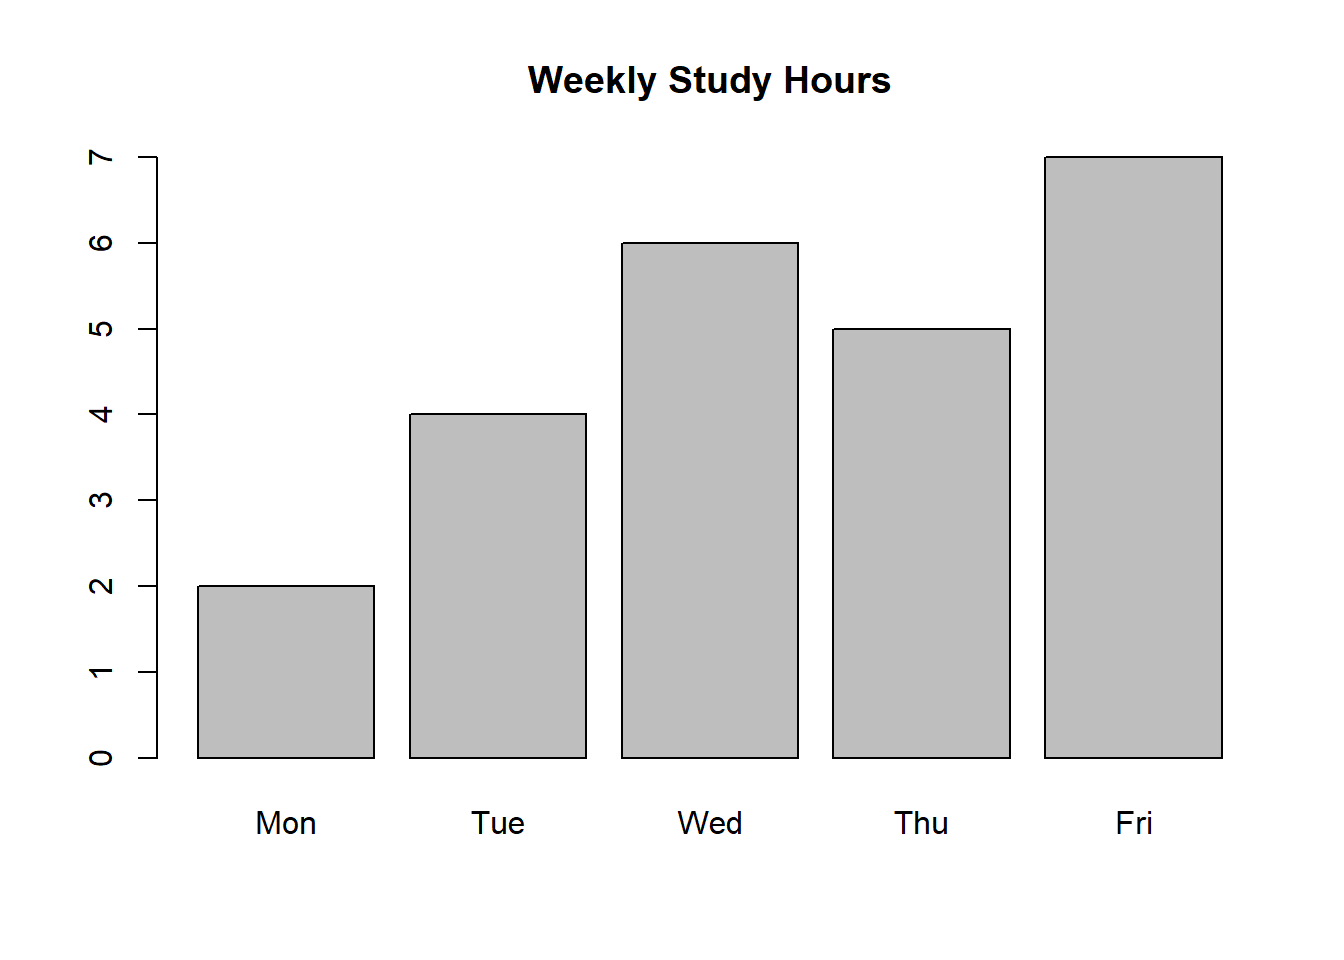
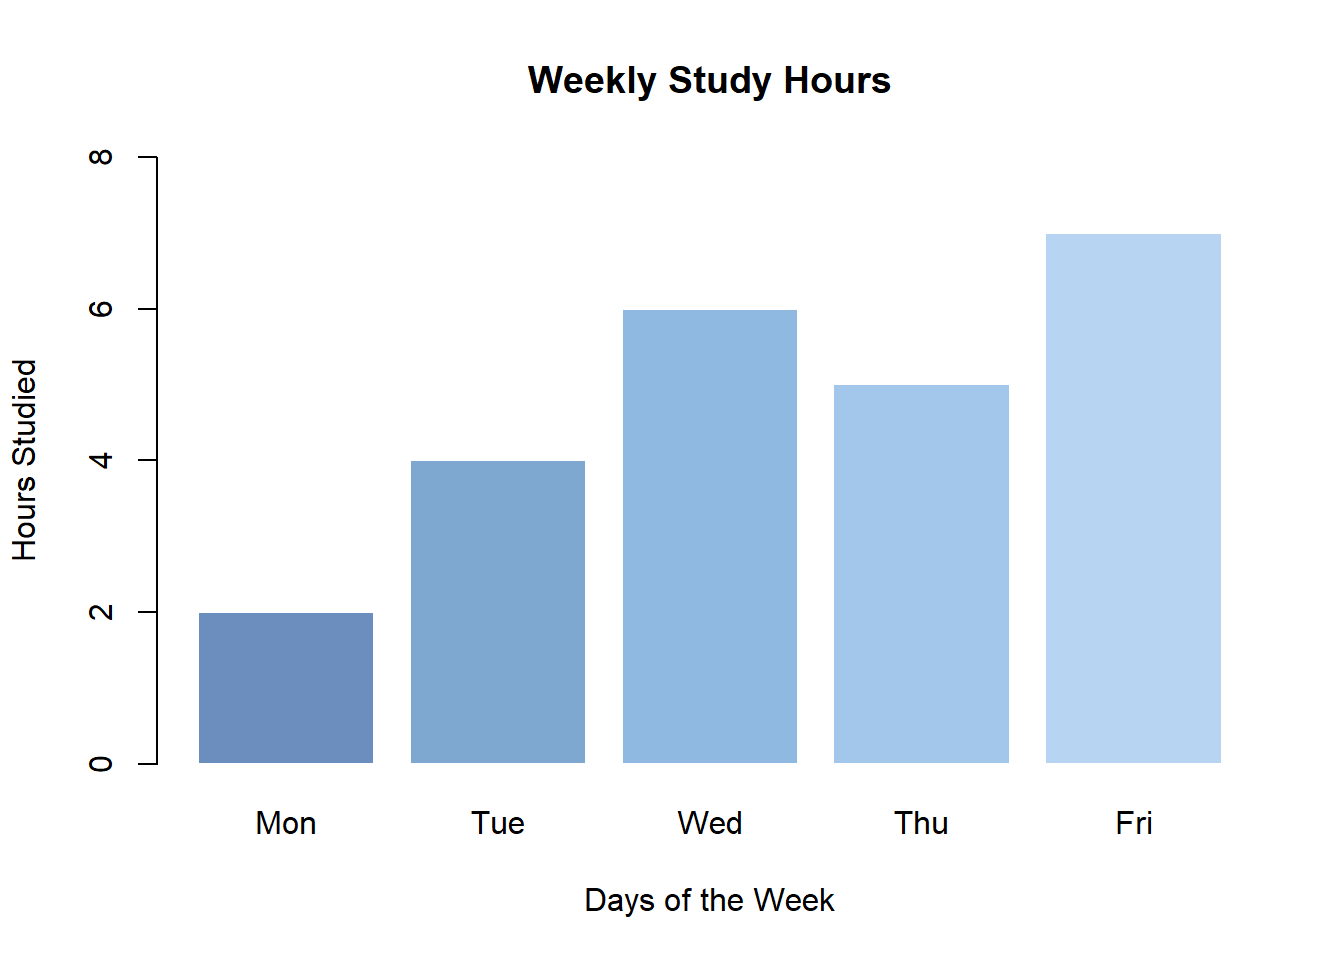
Prepared final documentation with all updates and revisions

diff --git a/example.html b/example.html
@@ -21,6 +21,41 @@ ul.task-list li input[type="checkbox"] {
   margin: 0 0.8em 0.2em -1em; /* quarto-specific, see https://github.com/quarto-dev/quarto-cli/issues/4556 */ 
   vertical-align: middle;
 }
+/* CSS for syntax highlighting */
+html { -webkit-text-size-adjust: 100%; }
+pre > code.sourceCode { white-space: pre; position: relative; }
+pre > code.sourceCode > span { display: inline-block; line-height: 1.25; }
+pre > code.sourceCode > span:empty { height: 1.2em; }
+.sourceCode { overflow: visible; }
+code.sourceCode > span { color: inherit; text-decoration: inherit; }
+div.sourceCode { margin: 1em 0; }
+pre.sourceCode { margin: 0; }
+@media screen {
+div.sourceCode { overflow: auto; }
+}
+@media print {
+pre > code.sourceCode { white-space: pre-wrap; }
+pre > code.sourceCode > span { text-indent: -5em; padding-left: 5em; }
+}
+pre.numberSource code
+  { counter-reset: source-line 0; }
+pre.numberSource code > span
+  { position: relative; left: -4em; counter-increment: source-line; }
+pre.numberSource code > span > a:first-child::before
+  { content: counter(source-line);
+    position: relative; left: -1em; text-align: right; vertical-align: baseline;
+    border: none; display: inline-block;
+    -webkit-touch-callout: none; -webkit-user-select: none;
+    -khtml-user-select: none; -moz-user-select: none;
+    -ms-user-select: none; user-select: none;
+    padding: 0 4px; width: 4em;
+  }
+pre.numberSource { margin-left: 3em;  padding-left: 4px; }
+div.sourceCode
+  {   }
+@media screen {
+pre > code.sourceCode > span > a:first-child::before { text-decoration: underline; }
+}
 </style>
 
 
@@ -59,6 +94,8 @@ ul.task-list li input[type="checkbox"] {
   <li><a href="#step-7-tagging-the-project-version" id="toc-step-7-tagging-the-project-version" class="nav-link" data-scroll-target="#step-7-tagging-the-project-version"><span class="header-section-number">1.7</span> Step 7: Tagging the Project Version</a></li>
   <li><a href="#step-8-branch-cleanup" id="toc-step-8-branch-cleanup" class="nav-link" data-scroll-target="#step-8-branch-cleanup"><span class="header-section-number">1.8</span> Step 8: Branch Cleanup</a></li>
   <li><a href="#step-9-commit-history" id="toc-step-9-commit-history" class="nav-link" data-scroll-target="#step-9-commit-history"><span class="header-section-number">1.9</span> Step 9: Commit History</a></li>
+  <li><a href="#step-10-final-visualization" id="toc-step-10-final-visualization" class="nav-link" data-scroll-target="#step-10-final-visualization"><span class="header-section-number">1.10</span> Step 10: Final Visualization</a></li>
+  <li><a href="#conclusion" id="toc-conclusion" class="nav-link" data-scroll-target="#conclusion"><span class="header-section-number">1.11</span> Conclusion</a></li>
   </ul></li>
   </ul>
 <div class="quarto-alternate-formats"><h2>Other Formats</h2><ul><li><a href="example.pdf"><i class="bi bi-file-pdf"></i>PDF</a></li></ul></div></nav>
@@ -95,10 +132,10 @@ ul.task-list li input[type="checkbox"] {
 <p>This document demonstrates github collaboration and version control using branches.</p>
 <section id="step-1-creating-the-quarto-document" class="level2" data-number="1.1">
 <h2 data-number="1.1" class="anchored" data-anchor-id="step-1-creating-the-quarto-document"><span class="header-section-number">1.1</span> Step 1: Creating the Quarto Document</h2>
-<p>A new project was created in Positron for this assignment workflow. Within the project directory, a Quarto file named <code>example.qmd</code> was created.</p>
-<p>The document was then rendered into HTML format using the following terminal command:</p>
+<p>A new Positron project was created for this assignment to manage all files in one workspace. Inside this project folder, a Quarto file named <code>example.qmd</code> was created to write the report.</p>
+<p>To check that everything was set up correctly, the document was rendered into an HTML file using the terminal command:</p>
 <p><code>quarto render example.qmd --to html</code></p>
-<p>This step confirmed that the Quarto setup was correctly configured and that the document could be successfully converted into an HTML output.</p>
+<p>This process converts the Quarto file into a readable HTML output and confirms that the setup is working properly. A screenshot has been included to show the successful rendering result.</p>
 <div class="quarto-figure quarto-figure-center">
 <figure class="figure">
 <p><img src="Screenshots/Check_depiction.png" class="img-fluid figure-img"></p>
@@ -108,39 +145,44 @@ ul.task-list li input[type="checkbox"] {
 </section>
 <section id="step-2-initialising-git-and-connecting-to-github" class="level2" data-number="1.2">
 <h2 data-number="1.2" class="anchored" data-anchor-id="step-2-initialising-git-and-connecting-to-github"><span class="header-section-number">1.2</span> Step 2: Initialising Git and Connecting to GitHub</h2>
-<p>The project folder was initialised as a Git repository using:</p>
+<p>Git was initialised in the project folder using:</p>
 <p><code>git init</code></p>
-<p>This enabled version control, allowing Git to track and manage changes made within the project.</p>
-<p>All project files were staged and committed to establish the initial version of the repository.</p>
-<p>A GitHub repository was then linked to the local repository using the following commands:</p>
-<p><code>git remote add origin &lt;repository-url&gt;</code> <code>git branch -M main</code> <code>git push -u origin main</code></p>
-<p>These commands connected the local project to GitHub and uploaded the initial commit to the remote repository.</p>
+<p>This turns the folder into a version-controlled repository, meaning Git can now track all file changes over time.</p>
+<p>After that, all files were added and committed to create the first version of the project.</p>
+<p>The local repository was then connected to GitHub using the following commands:</p>
+<p><code>git remote add origin &lt;repository-url&gt;</code></p>
+<p><code>git branch -M main</code></p>
+<p><code>git push -u origin main</code></p>
+<p>These commands link the local project to a GitHub repository and upload the initial version so it is stored online and can be accessed remotely.</p>
 </section>
 <section id="step-3-creating-and-updating-a-branch" class="level2" data-number="1.3">
 <h2 data-number="1.3" class="anchored" data-anchor-id="step-3-creating-and-updating-a-branch"><span class="header-section-number">1.3</span> Step 3: Creating and Updating a Branch</h2>
-<p>A new branch called <code>testbranch</code> was created and switched to using:</p>
+<p>A new branch called <code>testbranch</code> was created using:</p>
 <p><code>git checkout -b testbranch</code></p>
-<p>This allowed development to continue independently from the main branch without affecting the stable version of the project.</p>
-<p>The introduction section in <code>example.qmd</code> was modified within this branch to demonstrate version tracking.</p>
-<p>The changes were committed and pushed to GitHub using:</p>
+<p>This allows changes to be made separately from the main project without affecting the stable version on the main branch.</p>
+<p>An update was made to the introduction section in <code>example.qmd</code> to demonstrate how changes can be tracked independently in a branch.</p>
+<p>The changes were saved using a commit and then pushed to GitHub with:</p>
 <p><code>git push -u origin testbranch</code></p>
-<p>This ensured the branch was also available in the remote repository for tracking and collaboration purposes.</p>
+<p>This ensures the new branch and its changes are also available on GitHub for tracking and collaboration.</p>
 </section>
 <section id="step-4-amending-the-previous-commit" class="level2" data-number="1.4">
 <h2 data-number="1.4" class="anchored" data-anchor-id="step-4-amending-the-previous-commit"><span class="header-section-number">1.4</span> Step 4: Amending the Previous Commit</h2>
-<p>A new folder named <code>data</code> was created, and the dataset from Assignment 1 was added into it.</p>
+<p>A new folder named <code>data</code> was created, and the dataset from Assignment 1 was added inside it.</p>
 <p>Instead of creating a new commit, the previous commit was updated using:</p>
 <p><code>git commit --amend -m "Updated project structure and included Assignment 1 dataset in data folder"</code></p>
-<p>This approach maintained a cleaner commit history by combining related changes into a single commit.</p>
-<p>The amended commit was pushed to GitHub using a force push:</p>
+<p>This command replaces the most recent commit with an updated version, combining related changes into a single cleaner commit.</p>
+<p>Since the commit history was changed, the updated version was pushed to GitHub using:</p>
 <p><code>git push --force</code></p>
-<p>This was necessary because amending a commit changes its history and therefore requires overwriting the remote version.</p>
+<p>A force push is required here because Git needs permission to overwrite the previous commit on the remote repository.</p>
 </section>
 <section id="step-5-creating-a-conflict-on-main" class="level2" data-number="1.5">
 <h2 data-number="1.5" class="anchored" data-anchor-id="step-5-creating-a-conflict-on-main"><span class="header-section-number">1.5</span> Step 5: Creating a Conflict on Main</h2>
-<p>The <code>main</code> branch was checked out again, and the same section of <code>example.qmd</code> was modified differently from the version in <code>testbranch</code>.</p>
+<p>The project was switched back to the <code>main</code> branch using:</p>
+<p><code>git checkout main</code></p>
+<p>A change was then made to the same section of <code>example.qmd</code>, but in a different way from the version in <code>testbranch</code>.</p>
+<p>This was done intentionally to create a merge conflict situation later.</p>
 <p>The changes were committed and pushed to GitHub.</p>
-<p>By editing the same section in two different ways across branches, a deliberate merge conflict scenario was created for demonstration purposes.</p>
+<p>By modifying the same part of a file differently in two branches, Git is later unable to automatically decide which version to keep, creating a conflict for demonstration.</p>
 <div class="quarto-figure quarto-figure-center">
 <figure class="figure">
 <p><img src="Screenshots/Conflict.png" class="img-fluid figure-img"></p>
@@ -150,22 +192,24 @@ ul.task-list li input[type="checkbox"] {
 </section>
 <section id="step-6-merging-and-resolving-the-conflict" class="level2" data-number="1.6">
 <h2 data-number="1.6" class="anchored" data-anchor-id="step-6-merging-and-resolving-the-conflict"><span class="header-section-number">1.6</span> Step 6: Merging and Resolving the Conflict</h2>
-<p>The <code>testbranch</code> was merged into the <code>main</code> branch using:</p>
+<p>The <code>testbranch</code> was merged into <code>main</code> using:</p>
 <p><code>git merge testbranch</code></p>
-<p>Git detected a conflict because the same section of text had been modified differently in both branches. The conflict was resolved manually by editing the file, removing the conflict markers, and retaining the correct final version of the content.</p>
-<p>Once resolved, the merge was completed using:</p>
+<p>Git detected a conflict because both branches had changes in the same part of the file.</p>
+<p>The conflict was then resolved manually by opening the file, choosing the correct final version, and removing the conflict markers added by Git.</p>
+<p>After fixing the file, the merge was completed using:</p>
 <p><code>git commit -m "Resolved merge conflict between main and testbranch by integrating both changes"</code></p>
-<p>Finally, the updated version of the project was pushed to GitHub, ensuring that the resolved merge was reflected in the remote repository.</p>
+<p>Finally, the updated project was pushed to GitHub so that the resolved version is saved remotely.</p>
 </section>
 <section id="step-7-tagging-the-project-version" class="level2" data-number="1.7">
 <h2 data-number="1.7" class="anchored" data-anchor-id="step-7-tagging-the-project-version"><span class="header-section-number">1.7</span> Step 7: Tagging the Project Version</h2>
-<p>An annotated tag <code>v1.0</code> was created to mark a stable version of the project after completing branching, merging, and data integration.</p>
-<p>Tags help identify important milestones in a Git repository.</p>
+<p>An annotated <code>tag v1.0</code> was created to mark an important and stable version of the project after completing major development steps like branching and merging.</p>
+<p>Tags are useful because they help identify key milestones in the project history, making it easier to refer back to important versions later.</p>
 </section>
 <section id="step-8-branch-cleanup" class="level2" data-number="1.8">
 <h2 data-number="1.8" class="anchored" data-anchor-id="step-8-branch-cleanup"><span class="header-section-number">1.8</span> Step 8: Branch Cleanup</h2>
-<p>The <code>testbranch</code> was deleted locally and remotely after successful merging into the main branch.</p>
-<p>This keeps the repository clean and avoids unnecessary branches.</p>
+<p>After successfully merging <code>testbranch</code> into <code>main</code>, the branch was no longer needed.</p>
+<p>It was deleted locally and remotely to keep the repository clean and organised.</p>
+<p>This helps avoid confusion from unused or outdated branches and keeps the project structure simple.</p>
 <div class="quarto-figure quarto-figure-center">
 <figure class="figure">
 <p><img src="Screenshots/Branch_before.png" class="img-fluid figure-img"></p>
@@ -181,14 +225,50 @@ ul.task-list li input[type="checkbox"] {
 </section>
 <section id="step-9-commit-history" class="level2" data-number="1.9">
 <h2 data-number="1.9" class="anchored" data-anchor-id="step-9-commit-history"><span class="header-section-number">1.9</span> Step 9: Commit History</h2>
-<p>A condensed commit history was displayed using <code>git log --oneline</code>.</p>
-<p>This provides a simplified view of all changes made throughout the project.</p>
+<p>The commit history of the project was viewed in a simplified format using:</p>
+<p><code>git log --oneline</code></p>
+<p>This shows all commits in a short and easy-to-read format, helping to quickly understand the sequence of changes made throughout the project.</p>
+<p>A screenshot has been included to show the commit history output.</p>
 <div class="quarto-figure quarto-figure-center">
 <figure class="figure">
 <p><img src="Screenshots/Conflict.png" class="img-fluid figure-img"></p>
 <figcaption>Commit list screenshot</figcaption>
 </figure>
 </div>
+</section>
+<section id="step-10-final-visualization" class="level2" data-number="1.10">
+<h2 data-number="1.10" class="anchored" data-anchor-id="step-10-final-visualization"><span class="header-section-number">1.10</span> Step 10: Final Visualization</h2>
+<p>A simple bar plot is created to demonstrate basic data visualization in Positron.</p>
+<div class="cell">
+<details class="code-fold">
+<summary>Code</summary>
+<div class="code-copy-outer-scaffold"><div class="sourceCode cell-code" id="cb1"><pre class="sourceCode r code-with-copy"><code class="sourceCode r"><span id="cb1-1"><a href="#cb1-1" aria-hidden="true" tabindex="-1"></a>study_hours <span class="ot">&lt;-</span> <span class="fu">c</span>(<span class="dv">2</span>, <span class="dv">4</span>, <span class="dv">6</span>, <span class="dv">5</span>, <span class="dv">7</span>)</span>
+<span id="cb1-2"><a href="#cb1-2" aria-hidden="true" tabindex="-1"></a></span>
+<span id="cb1-3"><a href="#cb1-3" aria-hidden="true" tabindex="-1"></a><span class="fu">barplot</span>(</span>
+<span id="cb1-4"><a href="#cb1-4" aria-hidden="true" tabindex="-1"></a>  study_hours,</span>
+<span id="cb1-5"><a href="#cb1-5" aria-hidden="true" tabindex="-1"></a>  <span class="at">names.arg =</span> <span class="fu">c</span>(<span class="st">"Mon"</span>, <span class="st">"Tue"</span>, <span class="st">"Wed"</span>, <span class="st">"Thu"</span>, <span class="st">"Fri"</span>),</span>
+<span id="cb1-6"><a href="#cb1-6" aria-hidden="true" tabindex="-1"></a>  <span class="at">col =</span> <span class="fu">c</span>(<span class="st">"#6C8EBF"</span>, <span class="st">"#7FA8D1"</span>, <span class="st">"#8FB9E0"</span>, <span class="st">"#A3C7EB"</span>, <span class="st">"#B7D5F2"</span>),</span>
+<span id="cb1-7"><a href="#cb1-7" aria-hidden="true" tabindex="-1"></a>  <span class="at">border =</span> <span class="st">"white"</span>,</span>
+<span id="cb1-8"><a href="#cb1-8" aria-hidden="true" tabindex="-1"></a>  <span class="at">main =</span> <span class="st">"Weekly Study Hours"</span>,</span>
+<span id="cb1-9"><a href="#cb1-9" aria-hidden="true" tabindex="-1"></a>  <span class="at">xlab =</span> <span class="st">"Days of the Week"</span>,</span>
+<span id="cb1-10"><a href="#cb1-10" aria-hidden="true" tabindex="-1"></a>  <span class="at">ylab =</span> <span class="st">"Hours Studied"</span>,</span>
+<span id="cb1-11"><a href="#cb1-11" aria-hidden="true" tabindex="-1"></a>  <span class="at">ylim =</span> <span class="fu">c</span>(<span class="dv">0</span>, <span class="dv">8</span>)</span>
+<span id="cb1-12"><a href="#cb1-12" aria-hidden="true" tabindex="-1"></a>)</span></code></pre></div><button title="Copy to Clipboard" class="code-copy-button"><i class="bi"></i></button></div>
+</details>
+<div class="cell-output-display">
+<div>
+<figure class="figure">
+<p><img src="example_files/figure-html/unnamed-chunk-1-1.png" class="img-fluid figure-img" width="672"></p>
+</figure>
+</div>
+</div>
+</div>
+<p><code>git reset --soft HEAD~1</code> is a command that takes you back one step in your commit history by removing your most recent commit. However, it does not delete or undo any of your actual work.</p>
+<p>All the changes you made in that commit stay in your files and also remain staged (ready to be committed again). This means you can safely fix something, adjust your commit, or redo it without losing any code you already wrote. I have also included a screenshot to show this process in the terminal for reference.</p>
+</section>
+<section id="conclusion" class="level2" data-number="1.11">
+<h2 data-number="1.11" class="anchored" data-anchor-id="conclusion"><span class="header-section-number">1.11</span> Conclusion</h2>
+<p>The above guide provides a comprehensive process of working on a reproducible project using Quarto, Git, and GitHub. It provides a detailed description of creating a project and managing it through versioning, commit, branch management, merges, and resolving conflicts. The guide further illustrates how a local project is linked to GitHub, versioning various iterations of work, and maintaining the integrity of the project. In essence, the entire process provides an insight into the benefits of version control in organising work, avoiding data loss, and facilitating collaborative development.</p>
 </section>
 </section>
 
